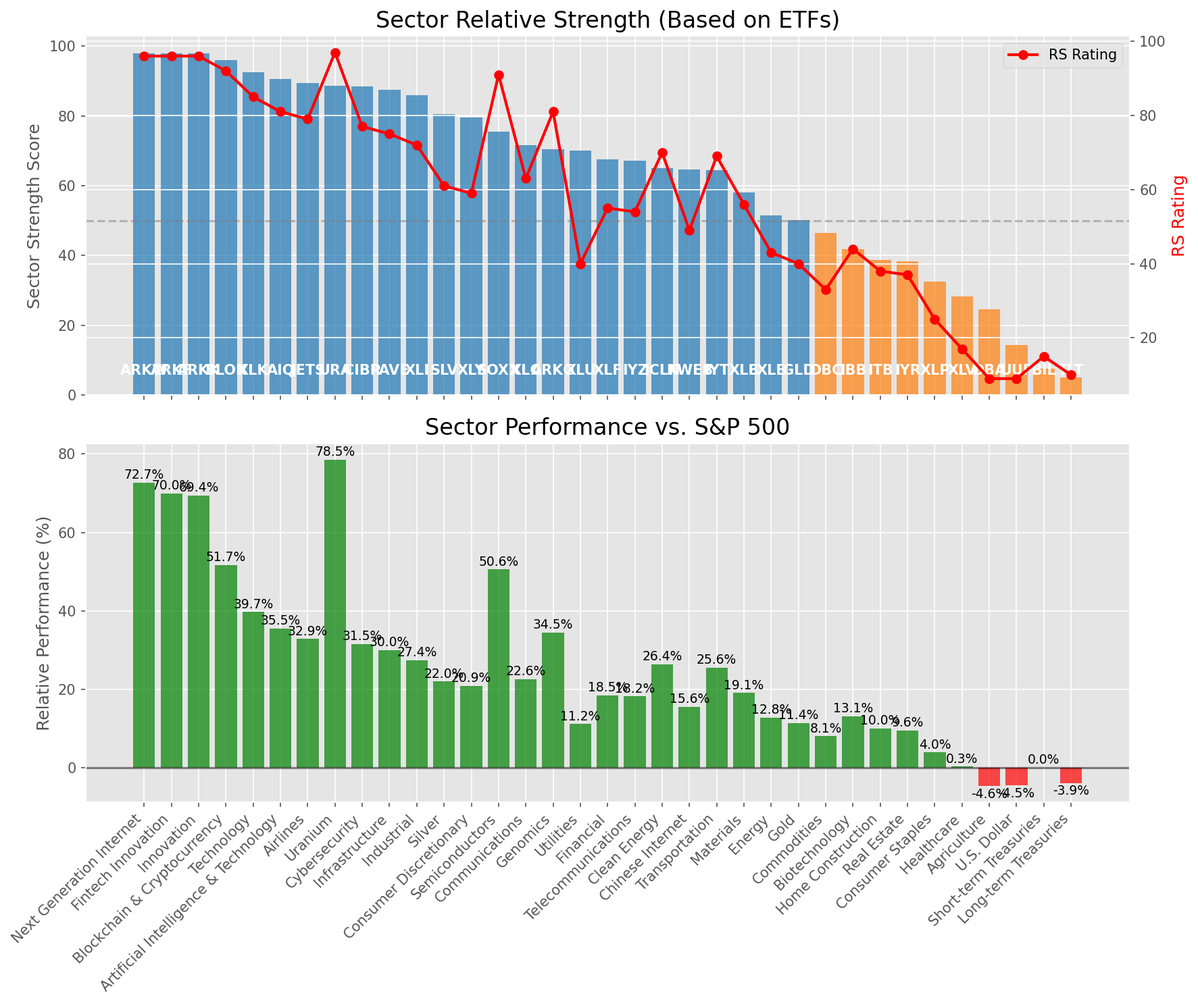
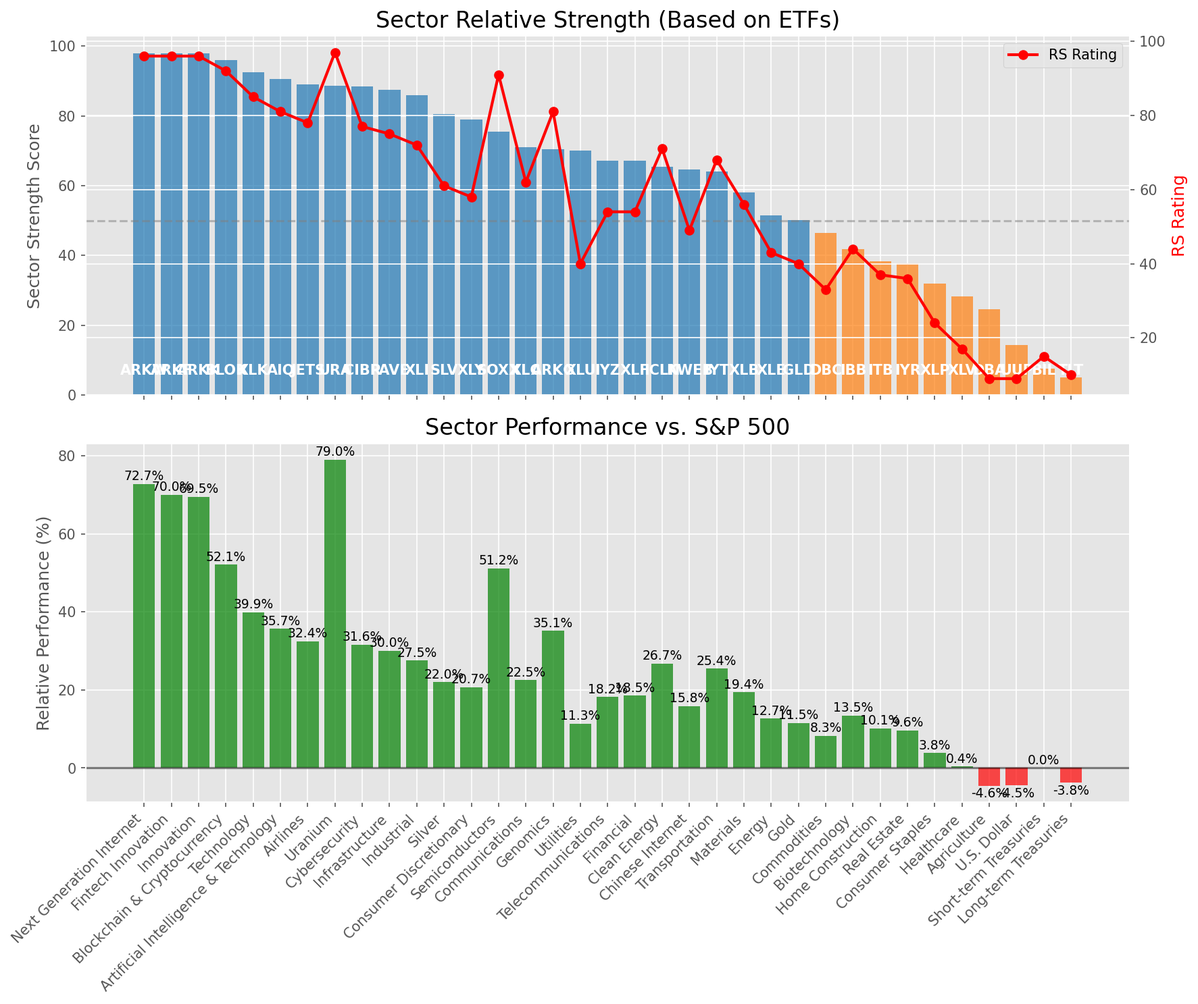
Add market report for 2025-07-09

diff --git a/oneil_relative_strength_report_2025-07-09.md b/oneil_relative_strength_report_2025-07-09.md
@@ -13,7 +13,7 @@
 | **Historical Mean** | 9.42 |
 | **Standard Deviation** | 0.50 |
 | **Z-Score (StdDev from Mean)** | 1.54 |
-| **Total Market Cap** | $306.51 trillion |
+| **Total Market Cap** | $306.66 trillion |
 | **GDP** | $29.96 trillion |
 
 ## **Market Insights**
@@ -50,40 +50,40 @@ Based on William O'Neil's Relative Strength Methodology
 | ETF | Strength | RS Rating | Performance | Above Key MAs | Trend | Sector |
 |-----|----------|-----------|-------------|--------------|-------|--------|
 | [ARKW](https://www.tradingview.com/chart/?symbol=ARKW) | 98.0 | 96.0 | 72.71% | 10d ✓, 50d ✓, 200d ✓ | ↗ | Next Generation Internet |
-| [ARKF](https://www.tradingview.com/chart/?symbol=ARKF) | 98.0 | 96.0 | 69.99% | 10d ✓, 50d ✓, 200d ✓ | ↗ | Fintech Innovation |
-| [ARKK](https://www.tradingview.com/chart/?symbol=ARKK) | 98.0 | 96.0 | 69.39% | 10d ✓, 50d ✓, 200d ✓ | ↗ | Innovation |
-| [BLOK](https://www.tradingview.com/chart/?symbol=BLOK) | 96.0 | 92.0 | 51.74% | 10d ✓, 50d ✓, 200d ✓ | ↗ | Blockchain & Cryptocurrency |
-| [XLK](https://www.tradingview.com/chart/?symbol=XLK) | 92.5 | 85.0 | 39.75% | 10d ✓, 50d ✓, 200d ✓ | ↗ | Technology |
-| [AIQ](https://www.tradingview.com/chart/?symbol=AIQ) | 90.5 | 81.0 | 35.50% | 10d ✓, 50d ✓, 200d ✓ | ↗ | Artificial Intelligence & Technology |
-| [JETS](https://www.tradingview.com/chart/?symbol=JETS) | 89.5 | 79.0 | 32.88% | 10d ✓, 50d ✓, 200d ✓ | ↗ | Airlines |
-| [URA](https://www.tradingview.com/chart/?symbol=URA) | 88.6 | 97.0 | 78.55% | 10d ✗, 50d ✓, 200d ✓ | ↗ | Uranium |
-| [CIBR](https://www.tradingview.com/chart/?symbol=CIBR) | 88.5 | 77.0 | 31.53% | 10d ✓, 50d ✓, 200d ✓ | ↗ | Cybersecurity |
-| [PAVE](https://www.tradingview.com/chart/?symbol=PAVE) | 87.5 | 75.0 | 29.98% | 10d ✓, 50d ✓, 200d ✓ | ↗ | Infrastructure |
-| [XLI](https://www.tradingview.com/chart/?symbol=XLI) | 86.0 | 72.0 | 27.43% | 10d ✓, 50d ✓, 200d ✓ | ↗ | Industrial |
-| [SLV](https://www.tradingview.com/chart/?symbol=SLV) | 80.5 | 61.0 | 22.02% | 10d ✓, 50d ✓, 200d ✓ | ↗ | Silver |
-| [XLY](https://www.tradingview.com/chart/?symbol=XLY) | 79.5 | 59.0 | 20.95% | 10d ✓, 50d ✓, 200d ✓ | ↗ | Consumer Discretionary |
-| [SOXX](https://www.tradingview.com/chart/?symbol=SOXX) | 75.5 | 91.0 | 50.60% | 10d ✓, 50d ✓, 200d ✓ | ↘ | Semiconductors |
-| [XLC](https://www.tradingview.com/chart/?symbol=XLC) | 71.6 | 63.0 | 22.64% | 10d ✗, 50d ✓, 200d ✓ | ↗ | Communications |
-| [ARKG](https://www.tradingview.com/chart/?symbol=ARKG) | 70.5 | 81.0 | 34.45% | 10d ✓, 50d ✓, 200d ✓ | ↘ | Genomics |
-| [XLU](https://www.tradingview.com/chart/?symbol=XLU) | 70.0 | 40.0 | 11.17% | 10d ✓, 50d ✓, 200d ✓ | ↗ | Utilities |
-| [XLF](https://www.tradingview.com/chart/?symbol=XLF) | 67.6 | 55.0 | 18.52% | 10d ✗, 50d ✓, 200d ✓ | ↗ | Financial |
-| [IYZ](https://www.tradingview.com/chart/?symbol=IYZ) | 67.1 | 54.0 | 18.22% | 10d ✗, 50d ✓, 200d ✓ | ↗ | Telecommunications |
-| [ICLN](https://www.tradingview.com/chart/?symbol=ICLN) | 65.0 | 70.0 | 26.37% | 10d ✓, 50d ✓, 200d ✓ | ↘ | Clean Energy |
-| [KWEB](https://www.tradingview.com/chart/?symbol=KWEB) | 64.6 | 49.0 | 15.60% | 10d ✗, 50d ✓, 200d ✓ | ↗ | Chinese Internet |
-| [IYT](https://www.tradingview.com/chart/?symbol=IYT) | 64.5 | 69.0 | 25.57% | 10d ✓, 50d ✓, 200d ✓ | ↘ | Transportation |
-| [XLB](https://www.tradingview.com/chart/?symbol=XLB) | 58.0 | 56.0 | 19.08% | 10d ✓, 50d ✓, 200d ✓ | ↘ | Materials |
-| [XLE](https://www.tradingview.com/chart/?symbol=XLE) | 51.5 | 43.0 | 12.82% | 10d ✓, 50d ✓, 200d ✓ | ↘ | Energy |
-| [GLD](https://www.tradingview.com/chart/?symbol=GLD) | 50.2 | 40.0 | 11.45% | 10d ✗, 50d ✗, 200d ✓ | ↗ | Gold |
-| [DBC](https://www.tradingview.com/chart/?symbol=DBC) | 46.5 | 33.0 | 8.10% | 10d ✓, 50d ✓, 200d ✓ | ↘ | Commodities |
-| [IBB](https://www.tradingview.com/chart/?symbol=IBB) | 41.8 | 44.0 | 13.11% | 10d ✓, 50d ✓, 200d ✗ | ↘ | Biotechnology |
-| [ITB](https://www.tradingview.com/chart/?symbol=ITB) | 38.8 | 38.0 | 10.03% | 10d ✓, 50d ✓, 200d ✗ | ↘ | Home Construction |
-| [IYR](https://www.tradingview.com/chart/?symbol=IYR) | 38.3 | 37.0 | 9.59% | 10d ✓, 50d ✓, 200d ✗ | ↘ | Real Estate |
-| [XLP](https://www.tradingview.com/chart/?symbol=XLP) | 32.5 | 25.0 | 3.96% | 10d ✗, 50d ✗, 200d ✗ | ↗ | Consumer Staples |
-| [XLV](https://www.tradingview.com/chart/?symbol=XLV) | 28.3 | 17.0 | 0.33% | 10d ✓, 50d ✓, 200d ✗ | ↘ | Healthcare |
+| [ARKF](https://www.tradingview.com/chart/?symbol=ARKF) | 98.0 | 96.0 | 70.03% | 10d ✓, 50d ✓, 200d ✓ | ↗ | Fintech Innovation |
+| [ARKK](https://www.tradingview.com/chart/?symbol=ARKK) | 98.0 | 96.0 | 69.51% | 10d ✓, 50d ✓, 200d ✓ | ↗ | Innovation |
+| [BLOK](https://www.tradingview.com/chart/?symbol=BLOK) | 96.0 | 92.0 | 52.09% | 10d ✓, 50d ✓, 200d ✓ | ↗ | Blockchain & Cryptocurrency |
+| [XLK](https://www.tradingview.com/chart/?symbol=XLK) | 92.5 | 85.0 | 39.94% | 10d ✓, 50d ✓, 200d ✓ | ↗ | Technology |
+| [AIQ](https://www.tradingview.com/chart/?symbol=AIQ) | 90.5 | 81.0 | 35.65% | 10d ✓, 50d ✓, 200d ✓ | ↗ | Artificial Intelligence & Technology |
+| [JETS](https://www.tradingview.com/chart/?symbol=JETS) | 89.0 | 78.0 | 32.41% | 10d ✓, 50d ✓, 200d ✓ | ↗ | Airlines |
+| [URA](https://www.tradingview.com/chart/?symbol=URA) | 88.6 | 97.0 | 78.99% | 10d ✗, 50d ✓, 200d ✓ | ↗ | Uranium |
+| [CIBR](https://www.tradingview.com/chart/?symbol=CIBR) | 88.5 | 77.0 | 31.55% | 10d ✓, 50d ✓, 200d ✓ | ↗ | Cybersecurity |
+| [PAVE](https://www.tradingview.com/chart/?symbol=PAVE) | 87.5 | 75.0 | 30.04% | 10d ✓, 50d ✓, 200d ✓ | ↗ | Infrastructure |
+| [XLI](https://www.tradingview.com/chart/?symbol=XLI) | 86.0 | 72.0 | 27.52% | 10d ✓, 50d ✓, 200d ✓ | ↗ | Industrial |
+| [SLV](https://www.tradingview.com/chart/?symbol=SLV) | 80.5 | 61.0 | 22.01% | 10d ✓, 50d ✓, 200d ✓ | ↗ | Silver |
+| [XLY](https://www.tradingview.com/chart/?symbol=XLY) | 79.0 | 58.0 | 20.74% | 10d ✓, 50d ✓, 200d ✓ | ↗ | Consumer Discretionary |
+| [SOXX](https://www.tradingview.com/chart/?symbol=SOXX) | 75.5 | 91.0 | 51.16% | 10d ✓, 50d ✓, 200d ✓ | ↘ | Semiconductors |
+| [XLC](https://www.tradingview.com/chart/?symbol=XLC) | 71.1 | 62.0 | 22.50% | 10d ✗, 50d ✓, 200d ✓ | ↗ | Communications |
+| [ARKG](https://www.tradingview.com/chart/?symbol=ARKG) | 70.5 | 81.0 | 35.13% | 10d ✓, 50d ✓, 200d ✓ | ↘ | Genomics |
+| [XLU](https://www.tradingview.com/chart/?symbol=XLU) | 70.0 | 40.0 | 11.33% | 10d ✓, 50d ✓, 200d ✓ | ↗ | Utilities |
+| [IYZ](https://www.tradingview.com/chart/?symbol=IYZ) | 67.1 | 54.0 | 18.19% | 10d ✗, 50d ✓, 200d ✓ | ↗ | Telecommunications |
+| [XLF](https://www.tradingview.com/chart/?symbol=XLF) | 67.1 | 54.0 | 18.51% | 10d ✗, 50d ✓, 200d ✓ | ↗ | Financial |
+| [ICLN](https://www.tradingview.com/chart/?symbol=ICLN) | 65.5 | 71.0 | 26.74% | 10d ✓, 50d ✓, 200d ✓ | ↘ | Clean Energy |
+| [KWEB](https://www.tradingview.com/chart/?symbol=KWEB) | 64.6 | 49.0 | 15.84% | 10d ✗, 50d ✓, 200d ✓ | ↗ | Chinese Internet |
+| [IYT](https://www.tradingview.com/chart/?symbol=IYT) | 64.0 | 68.0 | 25.44% | 10d ✓, 50d ✓, 200d ✓ | ↘ | Transportation |
+| [XLB](https://www.tradingview.com/chart/?symbol=XLB) | 58.0 | 56.0 | 19.42% | 10d ✓, 50d ✓, 200d ✓ | ↘ | Materials |
+| [XLE](https://www.tradingview.com/chart/?symbol=XLE) | 51.5 | 43.0 | 12.67% | 10d ✓, 50d ✓, 200d ✓ | ↘ | Energy |
+| [GLD](https://www.tradingview.com/chart/?symbol=GLD) | 50.2 | 40.0 | 11.52% | 10d ✗, 50d ✗, 200d ✓ | ↗ | Gold |
+| [DBC](https://www.tradingview.com/chart/?symbol=DBC) | 46.5 | 33.0 | 8.29% | 10d ✓, 50d ✓, 200d ✓ | ↘ | Commodities |
+| [IBB](https://www.tradingview.com/chart/?symbol=IBB) | 41.8 | 44.0 | 13.45% | 10d ✓, 50d ✓, 200d ✗ | ↘ | Biotechnology |
+| [ITB](https://www.tradingview.com/chart/?symbol=ITB) | 38.3 | 37.0 | 10.11% | 10d ✓, 50d ✓, 200d ✗ | ↘ | Home Construction |
+| [IYR](https://www.tradingview.com/chart/?symbol=IYR) | 37.8 | 36.0 | 9.58% | 10d ✓, 50d ✓, 200d ✗ | ↘ | Real Estate |
+| [XLP](https://www.tradingview.com/chart/?symbol=XLP) | 32.0 | 24.0 | 3.81% | 10d ✗, 50d ✗, 200d ✗ | ↗ | Consumer Staples |
+| [XLV](https://www.tradingview.com/chart/?symbol=XLV) | 28.3 | 17.0 | 0.39% | 10d ✓, 50d ✓, 200d ✗ | ↘ | Healthcare |
 | [DBA](https://www.tradingview.com/chart/?symbol=DBA) | 24.5 | 9.0 | -4.60% | 10d ✗, 50d ✗, 200d ✗ | ↗ | Agriculture |
-| [UUP](https://www.tradingview.com/chart/?symbol=UUP) | 14.4 | 9.0 | -4.45% | 10d ✓, 50d ✗, 200d ✗ | ↘ | U.S. Dollar |
-| [BIL](https://www.tradingview.com/chart/?symbol=BIL) | 7.5 | 15.0 | 0.04% | 10d ✗, 50d ✗, 200d ✗ | ↘ | Short-term Treasuries |
-| [TLT](https://www.tradingview.com/chart/?symbol=TLT) | 5.0 | 10.0 | -3.87% | 10d ✗, 50d ✗, 200d ✗ | ↘ | Long-term Treasuries |
+| [UUP](https://www.tradingview.com/chart/?symbol=UUP) | 14.4 | 9.0 | -4.47% | 10d ✓, 50d ✗, 200d ✗ | ↘ | U.S. Dollar |
+| [BIL](https://www.tradingview.com/chart/?symbol=BIL) | 7.5 | 15.0 | 0.03% | 10d ✗, 50d ✗, 200d ✗ | ↘ | Short-term Treasuries |
+| [TLT](https://www.tradingview.com/chart/?symbol=TLT) | 5.0 | 10.0 | -3.75% | 10d ✗, 50d ✗, 200d ✗ | ↘ | Long-term Treasuries |
 
 ### **Sector ETF Performance Interpretation**
 
@@ -110,162 +110,161 @@ The following 44 stocks show exceptional relative strength:
 
 | RS Rating | Buy Score | Current Price | Chart | Name | Ticker |
 |-----------|-----------|---------------|-------|------|--------|
-| 100 | 100 | $177.34 | [Chart](https://www.tradingview.com/chart/?symbol=LEU) | Centrus Energy Corp. | LEU |
-| 100 | 100 | $93.89 | [Chart](https://www.tradingview.com/chart/?symbol=HOOD) | Robinhood Markets, Inc. Class A Common Stock | HOOD |
+| 100 | 100 | $177.95 | [Chart](https://www.tradingview.com/chart/?symbol=LEU) | Centrus Energy Corp. | LEU |
+| 100 | 100 | $93.03 | [Chart](https://www.tradingview.com/chart/?symbol=HOOD) | Robinhood Markets, Inc. Class A Common Stock | HOOD |
 | 99 | 100 | $143.48 | [Chart](https://www.tradingview.com/chart/?symbol=LMB) | Limbach Holdings, Inc Common Stock | LMB |
-| 99 | 100 | $349.71 | [Chart](https://www.tradingview.com/chart/?symbol=CVNA) | Carvana Co. | CVNA |
-| 99 | 100 | $106.13 | [Chart](https://www.tradingview.com/chart/?symbol=RBLX) | Roblox Corporation | RBLX |
-| 99 | 100 | $104.80 | [Chart](https://www.tradingview.com/chart/?symbol=VRNA) | Verona Pharma plc | VRNA |
-| 98 | 100 | $541.11 | [Chart](https://www.tradingview.com/chart/?symbol=GEV) | GE Vernova Inc. | GEV |
+| 99 | 100 | $104.79 | [Chart](https://www.tradingview.com/chart/?symbol=VRNA) | Verona Pharma plc | VRNA |
+| 99 | 100 | $348.15 | [Chart](https://www.tradingview.com/chart/?symbol=CVNA) | Carvana Co. | CVNA |
+| 99 | 100 | $105.83 | [Chart](https://www.tradingview.com/chart/?symbol=RBLX) | Roblox Corporation | RBLX |
+| 98 | 100 | $142.53 | [Chart](https://www.tradingview.com/chart/?symbol=FUTU) | Futu Holdings Limited American Depositary Shares | FUTU |
+| 98 | 100 | $140.54 | [Chart](https://www.tradingview.com/chart/?symbol=PLTR) | Palantir Technologies Inc. Class A Common Stock | PLTR |
+| 98 | 100 | $75.05 | [Chart](https://www.tradingview.com/chart/?symbol=ODD) | ODDITY Tech Ltd. Class A Ordinary Shares | ODD |
+| 98 | 100 | $541.18 | [Chart](https://www.tradingview.com/chart/?symbol=GEV) | GE Vernova Inc. | GEV |
 | 98 | 100 | $43.92 | [Chart](https://www.tradingview.com/chart/?symbol=FARO) | Faro Technologies Inc | FARO |
-| 98 | 100 | $74.89 | [Chart](https://www.tradingview.com/chart/?symbol=ODD) | ODDITY Tech Ltd. Class A Ordinary Shares | ODD |
-| 97 | 100 | $139.31 | [Chart](https://www.tradingview.com/chart/?symbol=PLTR) | Palantir Technologies Inc. Class A Common Stock | PLTR |
-| 97 | 100 | $141.54 | [Chart](https://www.tradingview.com/chart/?symbol=FUTU) | Futu Holdings Limited American Depositary Shares | FUTU |
-| 96 | 100 | $50.76 | [Chart](https://www.tradingview.com/chart/?symbol=ARKF) | ARK Fintech Innovation ETF | ARKF |
-| 96 | 100 | $90.17 | [Chart](https://www.tradingview.com/chart/?symbol=RBRK) | Rubrik, Inc. | RBRK |
-| 96 | 100 | $38.57 | [Chart](https://www.tradingview.com/chart/?symbol=AS) | Amer Sports, Inc. | AS |
-| 94 | 100 | $58.30 | [Chart](https://www.tradingview.com/chart/?symbol=IBKR) | Interactive Brokers Group, Inc. Class A Common Stock | IBKR |
-| 94 | 100 | $45.67 | [Chart](https://www.tradingview.com/chart/?symbol=KTOS) | Kratos Defense & Security Solutions, Inc. | KTOS |
-| 93 | 100 | $181.92 | [Chart](https://www.tradingview.com/chart/?symbol=HWM) | Howmet Aerospace Inc. | HWM |
-| 93 | 100 | $30.23 | [Chart](https://www.tradingview.com/chart/?symbol=DB) | Deutsche Bank Aktiengesellschaft | DB |
-| 93 | 100 | $508.19 | [Chart](https://www.tradingview.com/chart/?symbol=CRWD) | CrowdStrike Holdings, Inc. Class A Common Stock | CRWD |
-| 93 | 100 | $85.20 | [Chart](https://www.tradingview.com/chart/?symbol=RYTM) | Rhythm Pharmaceuticals, Inc. Common Stock | RYTM |
-| 93 | 100 | $49.99 | [Chart](https://www.tradingview.com/chart/?symbol=INOD) | Innodata Inc. | INOD |
-| 93 | 100 | $252.13 | [Chart](https://www.tradingview.com/chart/?symbol=WWD) | Woodward, Inc. | WWD |
-| 92 | 100 | $355.52 | [Chart](https://www.tradingview.com/chart/?symbol=APP) | Applovin Corporation Class A Common Stock | APP |
-| 92 | 100 | $43.03 | [Chart](https://www.tradingview.com/chart/?symbol=KD) | Kyndryl Holdings, Inc. | KD |
-| 92 | 100 | $46.97 | [Chart](https://www.tradingview.com/chart/?symbol=DRS) | Leonardo DRS, Inc. Common Stock | DRS |
-| 92 | 100 | $30.24 | [Chart](https://www.tradingview.com/chart/?symbol=NTGR) | NETGEAR, Inc. | NTGR |
-| 91 | 100 | $94.95 | [Chart](https://www.tradingview.com/chart/?symbol=TPR) | Tapestry, Inc. Common Stock | TPR |
-| 91 | 100 | $250.96 | [Chart](https://www.tradingview.com/chart/?symbol=GE) | GE Aerospace | GE |
-| 90 | 100 | $246.03 | [Chart](https://www.tradingview.com/chart/?symbol=DASH) | DoorDash, Inc. Class A Common Stock | DASH |
-| 90 | 100 | $45.49 | [Chart](https://www.tradingview.com/chart/?symbol=BBIO) | BridgeBio Pharma, Inc. Common Stock | BBIO |
-| 89 | 100 | $18.53 | [Chart](https://www.tradingview.com/chart/?symbol=BCS) | Barclays PLC | BCS |
-| 87 | 100 | $29.82 | [Chart](https://www.tradingview.com/chart/?symbol=CAE) | CAE INC | CAE |
-| 87 | 100 | $29.27 | [Chart](https://www.tradingview.com/chart/?symbol=SRAD) | Sportradar Group AG Class A Ordinary Shares | SRAD |
+| 96 | 100 | $50.77 | [Chart](https://www.tradingview.com/chart/?symbol=ARKF) | ARK Fintech Innovation ETF | ARKF |
+| 96 | 100 | $90.26 | [Chart](https://www.tradingview.com/chart/?symbol=RBRK) | Rubrik, Inc. | RBRK |
+| 96 | 100 | $38.47 | [Chart](https://www.tradingview.com/chart/?symbol=AS) | Amer Sports, Inc. | AS |
+| 94 | 100 | $58.09 | [Chart](https://www.tradingview.com/chart/?symbol=IBKR) | Interactive Brokers Group, Inc. Class A Common Stock | IBKR |
+| 94 | 100 | $45.52 | [Chart](https://www.tradingview.com/chart/?symbol=KTOS) | Kratos Defense & Security Solutions, Inc. | KTOS |
+| 94 | 100 | $21.37 | [Chart](https://www.tradingview.com/chart/?symbol=MAG) | MAG Silver Corp. | MAG |
+| 94 | 100 | $50.47 | [Chart](https://www.tradingview.com/chart/?symbol=INOD) | Innodata Inc. | INOD |
+| 93 | 100 | $30.26 | [Chart](https://www.tradingview.com/chart/?symbol=DB) | Deutsche Bank Aktiengesellschaft | DB |
+| 93 | 100 | $252.71 | [Chart](https://www.tradingview.com/chart/?symbol=WWD) | Woodward, Inc. | WWD |
+| 93 | 100 | $181.68 | [Chart](https://www.tradingview.com/chart/?symbol=HWM) | Howmet Aerospace Inc. | HWM |
+| 93 | 100 | $86.55 | [Chart](https://www.tradingview.com/chart/?symbol=RYTM) | Rhythm Pharmaceuticals, Inc. Common Stock | RYTM |
+| 93 | 100 | $507.24 | [Chart](https://www.tradingview.com/chart/?symbol=CRWD) | CrowdStrike Holdings, Inc. Class A Common Stock | CRWD |
+| 92 | 100 | $355.88 | [Chart](https://www.tradingview.com/chart/?symbol=APP) | Applovin Corporation Class A Common Stock | APP |
+| 92 | 100 | $46.73 | [Chart](https://www.tradingview.com/chart/?symbol=DRS) | Leonardo DRS, Inc. Common Stock | DRS |
+| 92 | 100 | $42.78 | [Chart](https://www.tradingview.com/chart/?symbol=KD) | Kyndryl Holdings, Inc. | KD |
+| 91 | 100 | $250.88 | [Chart](https://www.tradingview.com/chart/?symbol=GE) | GE Aerospace | GE |
+| 91 | 100 | $46.07 | [Chart](https://www.tradingview.com/chart/?symbol=BBIO) | BridgeBio Pharma, Inc. Common Stock | BBIO |
+| 91 | 100 | $95.03 | [Chart](https://www.tradingview.com/chart/?symbol=TPR) | Tapestry, Inc. Common Stock | TPR |
+| 89 | 100 | $18.56 | [Chart](https://www.tradingview.com/chart/?symbol=BCS) | Barclays PLC | BCS |
+| 87 | 100 | $29.81 | [Chart](https://www.tradingview.com/chart/?symbol=CAE) | CAE INC | CAE |
+| 87 | 100 | $29.17 | [Chart](https://www.tradingview.com/chart/?symbol=SRAD) | Sportradar Group AG Class A Ordinary Shares | SRAD |
 | 89 | 99 | $102.75 | [Chart](https://www.tradingview.com/chart/?symbol=SANM) | Sanmina  Corp | SANM |
-| 86 | 97 | $35.97 | [Chart](https://www.tradingview.com/chart/?symbol=ATAT) | Atour Lifestyle Holdings Limited American Depositary Shares | ATAT |
-| 83 | 97 | $96.00 | [Chart](https://www.tradingview.com/chart/?symbol=SNEX) | StoneX Group Inc. Common Stock | SNEX |
-| 86 | 96 | $62.05 | [Chart](https://www.tradingview.com/chart/?symbol=IBIT) | iShares Bitcoin Trust ETF | IBIT |
-| 84 | 96 | $60.09 | [Chart](https://www.tradingview.com/chart/?symbol=SHLD) | Global X Defense Tech ETF | SHLD |
-| 84 | 95 | $25.09 | [Chart](https://www.tradingview.com/chart/?symbol=KAR) | OPENLANE, Inc | KAR |
-| 83 | 94 | $75.96 | [Chart](https://www.tradingview.com/chart/?symbol=CTVA) | Corteva, Inc. Common Stock | CTVA |
-| 81 | 93 | $26.26 | [Chart](https://www.tradingview.com/chart/?symbol=OR) | OR Royalties Inc. | OR |
+| 89 | 99 | $29.73 | [Chart](https://www.tradingview.com/chart/?symbol=NTGR) | NETGEAR, Inc. | NTGR |
+| 86 | 96 | $62.14 | [Chart](https://www.tradingview.com/chart/?symbol=IBIT) | iShares Bitcoin Trust ETF | IBIT |
+| 85 | 96 | $25.16 | [Chart](https://www.tradingview.com/chart/?symbol=KAR) | OPENLANE, Inc | KAR |
+| 85 | 96 | $35.73 | [Chart](https://www.tradingview.com/chart/?symbol=ATAT) | Atour Lifestyle Holdings Limited American Depositary Shares | ATAT |
+| 82 | 96 | $95.57 | [Chart](https://www.tradingview.com/chart/?symbol=SNEX) | StoneX Group Inc. Common Stock | SNEX |
+| 83 | 95 | $60.08 | [Chart](https://www.tradingview.com/chart/?symbol=SHLD) | Global X Defense Tech ETF | SHLD |
+| 84 | 94 | $46.38 | [Chart](https://www.tradingview.com/chart/?symbol=AU) | AngloGold Ashanti plc | AU |
+| 83 | 94 | $76.18 | [Chart](https://www.tradingview.com/chart/?symbol=CTVA) | Corteva, Inc. Common Stock | CTVA |
+| 81 | 93 | $26.43 | [Chart](https://www.tradingview.com/chart/?symbol=OR) | OR Royalties Inc. | OR |
 | 80 | 91 | $5713.33 | [Chart](https://www.tradingview.com/chart/?symbol=BKNG) | Booking Holdings Inc. Common Stock | BKNG |
-| 80 | 90 | $267.17 | [Chart](https://www.tradingview.com/chart/?symbol=FDN) | First Trust Dow Jones Internet Index Fund ETF | FDN |
-| 80 | 90 | $111.99 | [Chart](https://www.tradingview.com/chart/?symbol=SPMO) | Invesco S&P 500 Momentum ETF | SPMO |
+| 80 | 90 | $111.95 | [Chart](https://www.tradingview.com/chart/?symbol=SPMO) | Invesco S&P 500 Momentum ETF | SPMO |
 
 ---
 
 
 ## **Sell Recommendations**
 
-The following 102 stocks show deteriorating relative strength:
+The following 101 stocks show deteriorating relative strength:
 
 | RS Rating | Sell Score | Current Price | Chart | Name | Ticker |
 |-----------|------------|---------------|-------|------|--------|
-| 1 | 100 | $25.80 | [Chart](https://www.tradingview.com/chart/?symbol=TECS) | Direxion Daily Technology Bear 3x Shares | TECS |
-| 1 | 100 | $25.16 | [Chart](https://www.tradingview.com/chart/?symbol=QID) | ProShares UltraShort QQQ | QID |
-| 1 | 100 | $12.80 | [Chart](https://www.tradingview.com/chart/?symbol=IART) | Integra LifeSciences Holdings | IART |
-| 1 | 100 | $16.48 | [Chart](https://www.tradingview.com/chart/?symbol=SDS) | ProShares UltraShort S&P500 | SDS |
-| 1 | 100 | $13.75 | [Chart](https://www.tradingview.com/chart/?symbol=NVDS) | Investment Managers Series Trust II Tradr 1.5X Short NVDA Daily ETF | NVDS |
-| 1 | 100 | $40.87 | [Chart](https://www.tradingview.com/chart/?symbol=SDOW) | ProShares UltraPro Short Dow 30 | SDOW |
-| 2 | 100 | $19.39 | [Chart](https://www.tradingview.com/chart/?symbol=BITI) | ProShares Short Bitcoin ETF | BITI |
-| 2 | 100 | $33.57 | [Chart](https://www.tradingview.com/chart/?symbol=PSQ) | ProShares Short QQQ | PSQ |
-| 2 | 100 | $24.02 | [Chart](https://www.tradingview.com/chart/?symbol=DXD) | ProShares UltraShort Dow 30 | DXD |
-| 2 | 100 | $234.57 | [Chart](https://www.tradingview.com/chart/?symbol=MOH) | Molina Healthcare, Inc. | MOH |
+| 1 | 100 | $25.12 | [Chart](https://www.tradingview.com/chart/?symbol=QID) | ProShares UltraShort QQQ | QID |
+| 1 | 100 | $25.70 | [Chart](https://www.tradingview.com/chart/?symbol=TECS) | Direxion Daily Technology Bear 3x Shares | TECS |
+| 1 | 100 | $13.82 | [Chart](https://www.tradingview.com/chart/?symbol=NVDS) | Investment Managers Series Trust II Tradr 1.5X Short NVDA Daily ETF | NVDS |
+| 1 | 100 | $40.79 | [Chart](https://www.tradingview.com/chart/?symbol=SDOW) | ProShares UltraPro Short Dow 30 | SDOW |
+| 1 | 100 | $16.47 | [Chart](https://www.tradingview.com/chart/?symbol=SDS) | ProShares UltraShort S&P500 | SDS |
+| 2 | 100 | $23.98 | [Chart](https://www.tradingview.com/chart/?symbol=DXD) | ProShares UltraShort Dow 30 | DXD |
+| 2 | 100 | $19.36 | [Chart](https://www.tradingview.com/chart/?symbol=BITI) | ProShares Short Bitcoin ETF | BITI |
+| 2 | 100 | $33.55 | [Chart](https://www.tradingview.com/chart/?symbol=PSQ) | ProShares Short QQQ | PSQ |
 | 2 | 100 | $35.36 | [Chart](https://www.tradingview.com/chart/?symbol=SARK) | Investment Managers Series Trust II Tradr 1X Short Innovation Daily ETF | SARK |
-| 3 | 100 | $39.49 | [Chart](https://www.tradingview.com/chart/?symbol=SH) | ProShares Short S&P500 | SH |
+| 2 | 100 | $12.92 | [Chart](https://www.tradingview.com/chart/?symbol=IART) | Integra LifeSciences Holdings | IART |
+| 3 | 100 | $42.97 | [Chart](https://www.tradingview.com/chart/?symbol=LINE) | Lineage, Inc. Common Stock | LINE |
+| 3 | 100 | $39.48 | [Chart](https://www.tradingview.com/chart/?symbol=SH) | ProShares Short S&P500 | SH |
+| 3 | 100 | $12.57 | [Chart](https://www.tradingview.com/chart/?symbol=CCRN) | Cross Country Healthcare Inc | CCRN |
 | 3 | 100 | $24.79 | [Chart](https://www.tradingview.com/chart/?symbol=CRTO) | Criteo S.A. | CRTO |
-| 3 | 100 | $38.37 | [Chart](https://www.tradingview.com/chart/?symbol=TREE) | LendingTree, Inc. | TREE |
-| 3 | 100 | $42.69 | [Chart](https://www.tradingview.com/chart/?symbol=LINE) | Lineage, Inc. Common Stock | LINE |
-| 3 | 100 | $35.91 | [Chart](https://www.tradingview.com/chart/?symbol=IBTA) | Ibotta, Inc. | IBTA |
-| 4 | 100 | $64.57 | [Chart](https://www.tradingview.com/chart/?symbol=ZROZ) | PIMCO 25+ Year Zero Coupon U.S. Treasury Index Exchange-Traded Fund | ZROZ |
+| 3 | 100 | $36.46 | [Chart](https://www.tradingview.com/chart/?symbol=IBTA) | Ibotta, Inc. | IBTA |
+| 4 | 100 | $10.71 | [Chart](https://www.tradingview.com/chart/?symbol=SONO) | Sonos, Inc. Common Stock | SONO |
+| 4 | 100 | $25.36 | [Chart](https://www.tradingview.com/chart/?symbol=DOG) | ProShares Short Dow30 | DOG |
 | 4 | 100 | $17.05 | [Chart](https://www.tradingview.com/chart/?symbol=HP) | Helmerich & Payne, Inc. | HP |
-| 4 | 100 | $10.73 | [Chart](https://www.tradingview.com/chart/?symbol=SONO) | Sonos, Inc. Common Stock | SONO |
-| 4 | 100 | $25.38 | [Chart](https://www.tradingview.com/chart/?symbol=DOG) | ProShares Short Dow30 | DOG |
-| 4 | 100 | $12.78 | [Chart](https://www.tradingview.com/chart/?symbol=CCRN) | Cross Country Healthcare Inc | CCRN |
-| 4 | 100 | $82.94 | [Chart](https://www.tradingview.com/chart/?symbol=LNTH) | Lantheus Holdings, Inc | LNTH |
 | 4 | 100 | $10.32 | [Chart](https://www.tradingview.com/chart/?symbol=LBTYK) | Liberty Global Ltd. Class C Common Shares | LBTYK |
-| 5 | 100 | $32.17 | [Chart](https://www.tradingview.com/chart/?symbol=CRI) | Carter's Inc. | CRI |
-| 5 | 100 | $16.33 | [Chart](https://www.tradingview.com/chart/?symbol=COLD) | Americold Realty Trust, Inc. | COLD |
+| 5 | 100 | $32.25 | [Chart](https://www.tradingview.com/chart/?symbol=CRI) | Carter's Inc. | CRI |
+| 5 | 100 | $17.08 | [Chart](https://www.tradingview.com/chart/?symbol=NOMD) | Nomad Foods Limited | NOMD |
+| 5 | 100 | $26.76 | [Chart](https://www.tradingview.com/chart/?symbol=VCYT) | Veracyte, Inc. | VCYT |
+| 5 | 100 | $64.75 | [Chart](https://www.tradingview.com/chart/?symbol=ZROZ) | PIMCO 25+ Year Zero Coupon U.S. Treasury Index Exchange-Traded Fund | ZROZ |
+| 5 | 100 | $51.18 | [Chart](https://www.tradingview.com/chart/?symbol=LW) | Lamb Weston Holdings, Inc. | LW |
+| 5 | 100 | $16.36 | [Chart](https://www.tradingview.com/chart/?symbol=COLD) | Americold Realty Trust, Inc. | COLD |
 | 5 | 100 | $10.07 | [Chart](https://www.tradingview.com/chart/?symbol=LBTYA) | Liberty Global Ltd. Class A Common Shares | LBTYA |
-| 5 | 100 | $26.71 | [Chart](https://www.tradingview.com/chart/?symbol=VCYT) | Veracyte, Inc. | VCYT |
-| 6 | 100 | $51.70 | [Chart](https://www.tradingview.com/chart/?symbol=LW) | Lamb Weston Holdings, Inc. | LW |
-| 6 | 100 | $49.12 | [Chart](https://www.tradingview.com/chart/?symbol=CCOI) | Cogent Communications Holdings, Inc. | CCOI |
+| 6 | 100 | $49.35 | [Chart](https://www.tradingview.com/chart/?symbol=CCOI) | Cogent Communications Holdings, Inc. | CCOI |
 | 7 | 100 | $14.62 | [Chart](https://www.tradingview.com/chart/?symbol=SEM) | SELECT MEDICAL HOLDINGS CORP | SEM |
-| 7 | 100 | $52.45 | [Chart](https://www.tradingview.com/chart/?symbol=CNMD) | CONMED Corporation | CNMD |
-| 7 | 100 | $14.60 | [Chart](https://www.tradingview.com/chart/?symbol=VRE) | Veris Residential, Inc. | VRE |
+| 7 | 100 | $45.45 | [Chart](https://www.tradingview.com/chart/?symbol=CWT) | California Water Service | CWT |
 | 8 | 100 | $77.00 | [Chart](https://www.tradingview.com/chart/?symbol=CNS) | Cohen & Steers Inc. | CNS |
-| 10 | 100 | $86.56 | [Chart](https://www.tradingview.com/chart/?symbol=TLT) | iShares 20+ Year Treasury Bond ETF | TLT |
-| 11 | 100 | $40.66 | [Chart](https://www.tradingview.com/chart/?symbol=POR) | Portland General Electric Company | POR |
-| 11 | 100 | $130.94 | [Chart](https://www.tradingview.com/chart/?symbol=KMB) | Kimberly-Clark Corp. | KMB |
-| 11 | 100 | $38.55 | [Chart](https://www.tradingview.com/chart/?symbol=LKQ) | LKQ Corporation | LKQ |
-| 12 | 100 | $17.70 | [Chart](https://www.tradingview.com/chart/?symbol=ZTO) | ZTO Express (Cayman) Inc. American Depositary Shares, each representing one Class A ordinary share | ZTO |
-| 14 | 100 | $29.15 | [Chart](https://www.tradingview.com/chart/?symbol=SPTS) | SPDR Portfolio Short Term Treasury ETF | SPTS |
+| 8 | 100 | $52.23 | [Chart](https://www.tradingview.com/chart/?symbol=CNMD) | CONMED Corporation | CNMD |
+| 9 | 100 | $14.63 | [Chart](https://www.tradingview.com/chart/?symbol=VRE) | Veris Residential, Inc. | VRE |
+| 9 | 100 | $10.38 | [Chart](https://www.tradingview.com/chart/?symbol=NMZ) | Nuveen Municipal High Income Opportunity Fund | NMZ |
+| 10 | 100 | $71.39 | [Chart](https://www.tradingview.com/chart/?symbol=TNET) | TRINET GROUP, INC. | TNET |
+| 10 | 100 | $130.76 | [Chart](https://www.tradingview.com/chart/?symbol=KMB) | Kimberly-Clark Corp. | KMB |
+| 10 | 100 | $86.67 | [Chart](https://www.tradingview.com/chart/?symbol=TLT) | iShares 20+ Year Treasury Bond ETF | TLT |
+| 11 | 100 | $40.79 | [Chart](https://www.tradingview.com/chart/?symbol=POR) | Portland General Electric Company | POR |
+| 11 | 100 | $38.59 | [Chart](https://www.tradingview.com/chart/?symbol=LKQ) | LKQ Corporation | LKQ |
+| 12 | 100 | $17.76 | [Chart](https://www.tradingview.com/chart/?symbol=ZTO) | ZTO Express (Cayman) Inc. American Depositary Shares, each representing one Class A ordinary share | ZTO |
 | 14 | 100 | $85.96 | [Chart](https://www.tradingview.com/chart/?symbol=SIGI) | Selective Insurance Group | SIGI |
-| 7 | 99 | $12.84 | [Chart](https://www.tradingview.com/chart/?symbol=GO) | Grocery Outlet Holding Corp. Common Stock | GO |
-| 8 | 99 | $45.45 | [Chart](https://www.tradingview.com/chart/?symbol=CWT) | California Water Service | CWT |
-| 8 | 99 | $15.91 | [Chart](https://www.tradingview.com/chart/?symbol=TNDM) | Tandem Diabetes Care, Inc. | TNDM |
-| 11 | 99 | $71.63 | [Chart](https://www.tradingview.com/chart/?symbol=TNET) | TRINET GROUP, INC. | TNET |
-| 13 | 99 | $82.73 | [Chart](https://www.tradingview.com/chart/?symbol=KSPI) | Joint Stock Company Kaspi.kz American Depository Shares | KSPI |
+| 14 | 100 | $29.15 | [Chart](https://www.tradingview.com/chart/?symbol=SPTS) | SPDR Portfolio Short Term Treasury ETF | SPTS |
+| 2 | 99 | $236.18 | [Chart](https://www.tradingview.com/chart/?symbol=MOH) | Molina Healthcare, Inc. | MOH |
+| 7 | 99 | $12.85 | [Chart](https://www.tradingview.com/chart/?symbol=GO) | Grocery Outlet Holding Corp. Common Stock | GO |
+| 13 | 98 | $82.47 | [Chart](https://www.tradingview.com/chart/?symbol=KSPI) | Joint Stock Company Kaspi.kz American Depository Shares | KSPI |
 | 6 | 97 | $25.28 | [Chart](https://www.tradingview.com/chart/?symbol=DRV) | Direxion Daily Real Estate Bear 3X Shares | DRV |
+| 12 | 97 | $13.65 | [Chart](https://www.tradingview.com/chart/?symbol=TSLT) | T-REX 2X Long Tesla Daily Target ETF | TSLT |
 | 14 | 97 | $22.83 | [Chart](https://www.tradingview.com/chart/?symbol=IBTG) | iShares iBonds Dec 2026 Term Treasury ETF | IBTG |
-| 12 | 96 | $62.09 | [Chart](https://www.tradingview.com/chart/?symbol=ELS) | Equity Lifestyle Properties, Inc. | ELS |
-| 13 | 96 | $13.70 | [Chart](https://www.tradingview.com/chart/?symbol=TSLT) | T-REX 2X Long Tesla Daily Target ETF | TSLT |
-| 10 | 95 | $63.09 | [Chart](https://www.tradingview.com/chart/?symbol=COLM) | Columbia Sportswear Co | COLM |
-| 10 | 95 | $48.73 | [Chart](https://www.tradingview.com/chart/?symbol=SNY) | Sanofi American Depositary Shares (Each representing one-half of one ordinary share) | SNY |
-| 15 | 95 | $105.97 | [Chart](https://www.tradingview.com/chart/?symbol=DECK) | Deckers Outdoor Corp | DECK |
-| 9 | 94 | $68.95 | [Chart](https://www.tradingview.com/chart/?symbol=BRC) | Brady Corporation | BRC |
-| 11 | 94 | $21.71 | [Chart](https://www.tradingview.com/chart/?symbol=TUA) | Simplify Short Term Treasury Futures Strategy ETF | TUA |
-| 15 | 94 | $162.65 | [Chart](https://www.tradingview.com/chart/?symbol=HSY) | The Hershey Company | HSY |
-| 9 | 93 | $132.54 | [Chart](https://www.tradingview.com/chart/?symbol=ICUI) | ICU Medical Inc | ICUI |
-| 23 | 91 | $32.41 | [Chart](https://www.tradingview.com/chart/?symbol=INVH) | Invitation Homes Inc. Common Stock | INVH |
-| 15 | 89 | $110.15 | [Chart](https://www.tradingview.com/chart/?symbol=SHV) | iShares Short Treasury Bond ETF | SHV |
-| 19 | 89 | $76.37 | [Chart](https://www.tradingview.com/chart/?symbol=AWR) | American States Water Company | AWR |
-| 14 | 88 | $20.15 | [Chart](https://www.tradingview.com/chart/?symbol=CON) | Concentra Group Holdings Parent, Inc. | CON |
-| 18 | 88 | $34.56 | [Chart](https://www.tradingview.com/chart/?symbol=PECO) | Phillips Edison & Company, Inc. Common Stock | PECO |
-| 23 | 88 | $47.60 | [Chart](https://www.tradingview.com/chart/?symbol=KBR) | KBR, Inc. | KBR |
-| 24 | 88 | $15.85 | [Chart](https://www.tradingview.com/chart/?symbol=BNL) | Broadstone Net Lease, Inc. | BNL |
-| 14 | 87 | $26.70 | [Chart](https://www.tradingview.com/chart/?symbol=FCPT) | Four Corners Property Trust, Inc. | FCPT |
-| 22 | 87 | $104.20 | [Chart](https://www.tradingview.com/chart/?symbol=DEO) | Diageo plc | DEO |
-| 26 | 87 | $60.63 | [Chart](https://www.tradingview.com/chart/?symbol=UL) | Unilever plc | UL |
-| 14 | 86 | $82.44 | [Chart](https://www.tradingview.com/chart/?symbol=SHY) | iShares 1-3 Year Treasury Bond ETF | SHY |
-| 16 | 86 | $59.88 | [Chart](https://www.tradingview.com/chart/?symbol=FTSM) | First Trust Enhanced Short Maturity ETF | FTSM |
-| 21 | 86 | $20.38 | [Chart](https://www.tradingview.com/chart/?symbol=SPT) | Sprout Social, Inc Class A Common Stock | SPT |
-| 23 | 86 | $13.96 | [Chart](https://www.tradingview.com/chart/?symbol=DOLE) | Dole plc | DOLE |
-| 29 | 86 | $181.99 | [Chart](https://www.tradingview.com/chart/?symbol=UHS) | Universal Health Services, Inc. Class B | UHS |
-| 15 | 85 | $50.55 | [Chart](https://www.tradingview.com/chart/?symbol=ICSH) | iShares Ultra Short Duration Bond Active ETF | ICSH |
-| 17 | 85 | $36.44 | [Chart](https://www.tradingview.com/chart/?symbol=OHI) | Omega Healthcare Investors Inc. | OHI |
-| 18 | 85 | $36.65 | [Chart](https://www.tradingview.com/chart/?symbol=PBA) | PEMBINA PIPELINE CORPORATION | PBA |
-| 23 | 83 | $18.88 | [Chart](https://www.tradingview.com/chart/?symbol=MSDL) | Morgan Stanley Direct Lending Fund | MSDL |
-| 20 | 82 | $35.26 | [Chart](https://www.tradingview.com/chart/?symbol=LTC) | LTC Properties, Inc. | LTC |
-| 21 | 82 | $297.41 | [Chart](https://www.tradingview.com/chart/?symbol=UTHR) | United Therapeutics Corp | UTHR |
-| 23 | 82 | $223.15 | [Chart](https://www.tradingview.com/chart/?symbol=LOW) | Lowe's Companies Inc. | LOW |
-| 25 | 82 | $118.17 | [Chart](https://www.tradingview.com/chart/?symbol=ITGR) | Integer Holdings Corporation | ITGR |
-| 32 | 82 | $462.25 | [Chart](https://www.tradingview.com/chart/?symbol=LMT) | Lockheed Martin Corp. | LMT |
-| 19 | 81 | $36.14 | [Chart](https://www.tradingview.com/chart/?symbol=VERX) | Vertex, Inc. Class A Common Stock | VERX |
-| 23 | 81 | $25.62 | [Chart](https://www.tradingview.com/chart/?symbol=TBBB) | BBB Foods Inc. | TBBB |
-| 25 | 80 | $30.81 | [Chart](https://www.tradingview.com/chart/?symbol=AXTA) | Axalta Coating Systems Ltd. | AXTA |
-| 36 | 80 | $18.46 | [Chart](https://www.tradingview.com/chart/?symbol=S) | SentinelOne, Inc. | S |
-| 25 | 79 | $296.43 | [Chart](https://www.tradingview.com/chart/?symbol=ACN) | Accenture PLC | ACN |
-| 26 | 79 | $41.03 | [Chart](https://www.tradingview.com/chart/?symbol=UDR) | UDR, Inc. | UDR |
-| 27 | 79 | $35.67 | [Chart](https://www.tradingview.com/chart/?symbol=AMH) | AMERICAN HOMES 4 RENT | AMH |
-| 25 | 77 | $23.93 | [Chart](https://www.tradingview.com/chart/?symbol=EWM) | iShares MSCI Malaysia ETF | EWM |
-| 26 | 77 | $89.91 | [Chart](https://www.tradingview.com/chart/?symbol=LPX) | Louisiana-Pacific Corp. | LPX |
-| 32 | 77 | $347.03 | [Chart](https://www.tradingview.com/chart/?symbol=SHW) | The Sherwin-Williams Company | SHW |
-| 24 | 76 | $240.63 | [Chart](https://www.tradingview.com/chart/?symbol=RNR) | RenaissanceRe Holdings Ltd. | RNR |
-| 30 | 76 | $30.45 | [Chart](https://www.tradingview.com/chart/?symbol=BAX) | Baxter International Inc. | BAX |
-| 27 | 74 | $39.25 | [Chart](https://www.tradingview.com/chart/?symbol=LZB) | La-Z-Boy Incorporated | LZB |
-| 32 | 74 | $70.59 | [Chart](https://www.tradingview.com/chart/?symbol=AZN) | AstraZeneca PLC | AZN |
-| 34 | 73 | $25.38 | [Chart](https://www.tradingview.com/chart/?symbol=HPQ) | HP Inc. | HPQ |
-| 31 | 72 | $66.86 | [Chart](https://www.tradingview.com/chart/?symbol=EQR) | Equity Residential | EQR |
-| 36 | 72 | $166.88 | [Chart](https://www.tradingview.com/chart/?symbol=EGP) | EastGroup Properties Inc. | EGP |
-| 30 | 71 | $11.54 | [Chart](https://www.tradingview.com/chart/?symbol=PTLO) | Portillo's Inc. Class A Common Stock | PTLO |
-| 31 | 70 | $15.53 | [Chart](https://www.tradingview.com/chart/?symbol=PLSE) | Pulse Biosciences, Inc Common Stock (DE) | PLSE |
-| 34 | 70 | $89.20 | [Chart](https://www.tradingview.com/chart/?symbol=VNQ) | Vanguard Real Estate ETF | VNQ |
-| 35 | 67 | $41.40 | [Chart](https://www.tradingview.com/chart/?symbol=XLRE) | Real Estate Select Sector SPDR Fund | XLRE |
-| 39 | 66 | $22.35 | [Chart](https://www.tradingview.com/chart/?symbol=KRG) | Kite Realty Group Trust | KRG |
+| 11 | 96 | $62.14 | [Chart](https://www.tradingview.com/chart/?symbol=ELS) | Equity Lifestyle Properties, Inc. | ELS |
+| 13 | 96 | $105.28 | [Chart](https://www.tradingview.com/chart/?symbol=DECK) | Deckers Outdoor Corp | DECK |
+| 8 | 95 | $68.95 | [Chart](https://www.tradingview.com/chart/?symbol=BRC) | Brady Corporation | BRC |
+| 9 | 95 | $48.78 | [Chart](https://www.tradingview.com/chart/?symbol=SNY) | Sanofi American Depositary Shares (Each representing one-half of one ordinary share) | SNY |
+| 8 | 94 | $132.54 | [Chart](https://www.tradingview.com/chart/?symbol=ICUI) | ICU Medical Inc | ICUI |
+| 10 | 94 | $63.07 | [Chart](https://www.tradingview.com/chart/?symbol=COLM) | Columbia Sportswear Co | COLM |
+| 11 | 94 | $21.73 | [Chart](https://www.tradingview.com/chart/?symbol=TUA) | Simplify Short Term Treasury Futures Strategy ETF | TUA |
+| 14 | 94 | $162.01 | [Chart](https://www.tradingview.com/chart/?symbol=HSY) | The Hershey Company | HSY |
+| 22 | 91 | $32.34 | [Chart](https://www.tradingview.com/chart/?symbol=INVH) | Invitation Homes Inc. Common Stock | INVH |
+| 11 | 89 | $71.04 | [Chart](https://www.tradingview.com/chart/?symbol=RLI) | RLI Corp. | RLI |
+| 13 | 89 | $20.10 | [Chart](https://www.tradingview.com/chart/?symbol=CON) | Concentra Group Holdings Parent, Inc. | CON |
+| 15 | 89 | $110.16 | [Chart](https://www.tradingview.com/chart/?symbol=SHV) | iShares Short Treasury Bond ETF | SHV |
+| 17 | 89 | $34.51 | [Chart](https://www.tradingview.com/chart/?symbol=PECO) | Phillips Edison & Company, Inc. Common Stock | PECO |
+| 13 | 88 | $26.66 | [Chart](https://www.tradingview.com/chart/?symbol=FCPT) | Four Corners Property Trust, Inc. | FCPT |
+| 23 | 88 | $47.54 | [Chart](https://www.tradingview.com/chart/?symbol=KBR) | KBR, Inc. | KBR |
+| 24 | 88 | $15.87 | [Chart](https://www.tradingview.com/chart/?symbol=BNL) | Broadstone Net Lease, Inc. | BNL |
+| 14 | 87 | $22.37 | [Chart](https://www.tradingview.com/chart/?symbol=IBTH) | iShares iBonds Dec 2027 Term Treasury ETF | IBTH |
+| 15 | 87 | $59.88 | [Chart](https://www.tradingview.com/chart/?symbol=FTSM) | First Trust Enhanced Short Maturity ETF | FTSM |
+| 20 | 87 | $76.73 | [Chart](https://www.tradingview.com/chart/?symbol=AWR) | American States Water Company | AWR |
+| 22 | 87 | $104.25 | [Chart](https://www.tradingview.com/chart/?symbol=DEO) | Diageo plc | DEO |
+| 22 | 87 | $13.96 | [Chart](https://www.tradingview.com/chart/?symbol=DOLE) | Dole plc | DOLE |
+| 26 | 87 | $60.57 | [Chart](https://www.tradingview.com/chart/?symbol=UL) | Unilever plc | UL |
+| 14 | 86 | $82.45 | [Chart](https://www.tradingview.com/chart/?symbol=SHY) | iShares 1-3 Year Treasury Bond ETF | SHY |
+| 21 | 86 | $20.33 | [Chart](https://www.tradingview.com/chart/?symbol=SPT) | Sprout Social, Inc Class A Common Stock | SPT |
+| 29 | 86 | $181.65 | [Chart](https://www.tradingview.com/chart/?symbol=UHS) | Universal Health Services, Inc. Class B | UHS |
+| 17 | 85 | $36.41 | [Chart](https://www.tradingview.com/chart/?symbol=OHI) | Omega Healthcare Investors Inc. | OHI |
+| 18 | 85 | $36.58 | [Chart](https://www.tradingview.com/chart/?symbol=PBA) | PEMBINA PIPELINE CORPORATION | PBA |
+| 20 | 83 | $296.50 | [Chart](https://www.tradingview.com/chart/?symbol=UTHR) | United Therapeutics Corp | UTHR |
+| 21 | 83 | $25.38 | [Chart](https://www.tradingview.com/chart/?symbol=TBBB) | BBB Foods Inc. | TBBB |
+| 22 | 83 | $222.55 | [Chart](https://www.tradingview.com/chart/?symbol=LOW) | Lowe's Companies Inc. | LOW |
+| 24 | 83 | $118.17 | [Chart](https://www.tradingview.com/chart/?symbol=ITGR) | Integer Holdings Corporation | ITGR |
+| 31 | 83 | $461.65 | [Chart](https://www.tradingview.com/chart/?symbol=LMT) | Lockheed Martin Corp. | LMT |
+| 23 | 82 | $18.98 | [Chart](https://www.tradingview.com/chart/?symbol=MSDL) | Morgan Stanley Direct Lending Fund | MSDL |
+| 19 | 81 | $36.16 | [Chart](https://www.tradingview.com/chart/?symbol=VERX) | Vertex, Inc. Class A Common Stock | VERX |
+| 35 | 81 | $18.40 | [Chart](https://www.tradingview.com/chart/?symbol=S) | SentinelOne, Inc. | S |
+| 24 | 80 | $295.89 | [Chart](https://www.tradingview.com/chart/?symbol=ACN) | Accenture PLC | ACN |
+| 25 | 80 | $40.88 | [Chart](https://www.tradingview.com/chart/?symbol=UDR) | UDR, Inc. | UDR |
+| 25 | 79 | $30.91 | [Chart](https://www.tradingview.com/chart/?symbol=AXTA) | Axalta Coating Systems Ltd. | AXTA |
+| 27 | 79 | $35.66 | [Chart](https://www.tradingview.com/chart/?symbol=AMH) | AMERICAN HOMES 4 RENT | AMH |
+| 24 | 78 | $23.93 | [Chart](https://www.tradingview.com/chart/?symbol=EWM) | iShares MSCI Malaysia ETF | EWM |
+| 32 | 77 | $346.71 | [Chart](https://www.tradingview.com/chart/?symbol=SHW) | The Sherwin-Williams Company | SHW |
+| 30 | 76 | $30.48 | [Chart](https://www.tradingview.com/chart/?symbol=BAX) | Baxter International Inc. | BAX |
+| 33 | 76 | $89.98 | [Chart](https://www.tradingview.com/chart/?symbol=LPX) | Louisiana-Pacific Corp. | LPX |
+| 30 | 75 | $39.37 | [Chart](https://www.tradingview.com/chart/?symbol=LZB) | La-Z-Boy Incorporated | LZB |
+| 31 | 75 | $70.62 | [Chart](https://www.tradingview.com/chart/?symbol=AZN) | AstraZeneca PLC | AZN |
+| 28 | 73 | $11.48 | [Chart](https://www.tradingview.com/chart/?symbol=PTLO) | Portillo's Inc. Class A Common Stock | PTLO |
+| 30 | 73 | $66.65 | [Chart](https://www.tradingview.com/chart/?symbol=EQR) | Equity Residential | EQR |
+| 35 | 72 | $166.50 | [Chart](https://www.tradingview.com/chart/?symbol=EGP) | EastGroup Properties Inc. | EGP |
+| 30 | 71 | $16.10 | [Chart](https://www.tradingview.com/chart/?symbol=PLSE) | Pulse Biosciences, Inc Common Stock (DE) | PLSE |
+| 34 | 70 | $89.19 | [Chart](https://www.tradingview.com/chart/?symbol=VNQ) | Vanguard Real Estate ETF | VNQ |
+| 34 | 69 | $239.24 | [Chart](https://www.tradingview.com/chart/?symbol=RNR) | RenaissanceRe Holdings Ltd. | RNR |
+| 38 | 67 | $22.30 | [Chart](https://www.tradingview.com/chart/?symbol=KRG) | Kite Realty Group Trust | KRG |
+| 39 | 67 | $58.63 | [Chart](https://www.tradingview.com/chart/?symbol=ESNT) | Essent Group LTD | ESNT |
+| 35 | 66 | $41.40 | [Chart](https://www.tradingview.com/chart/?symbol=XLRE) | Real Estate Select Sector SPDR Fund | XLRE |
 
 ## **Methodology**
 
